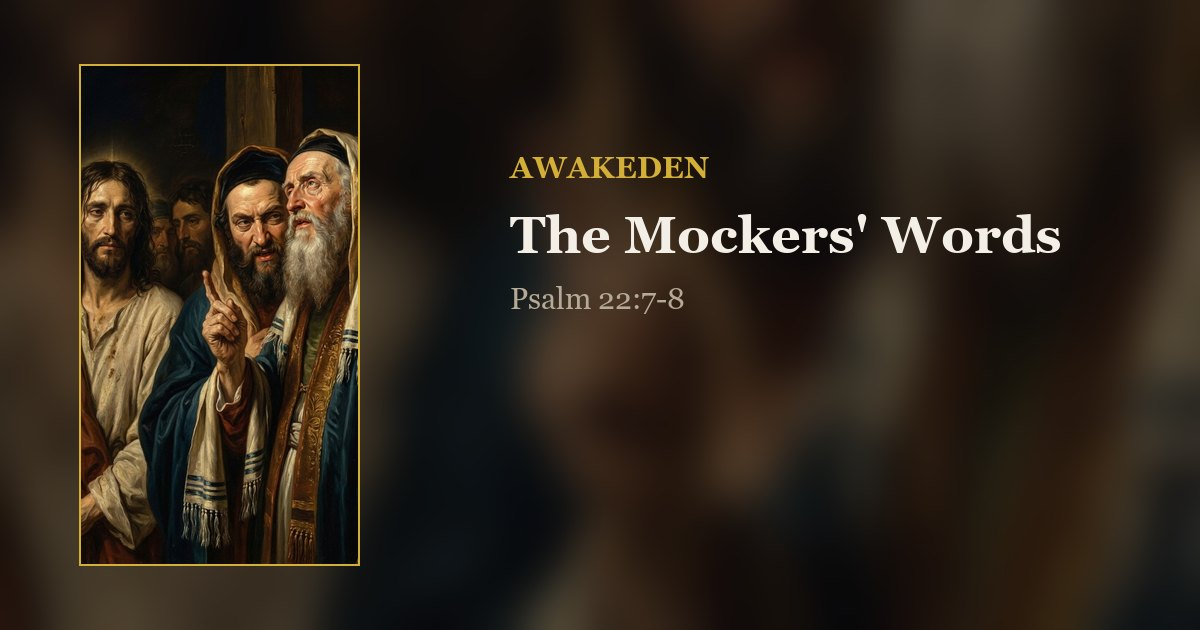
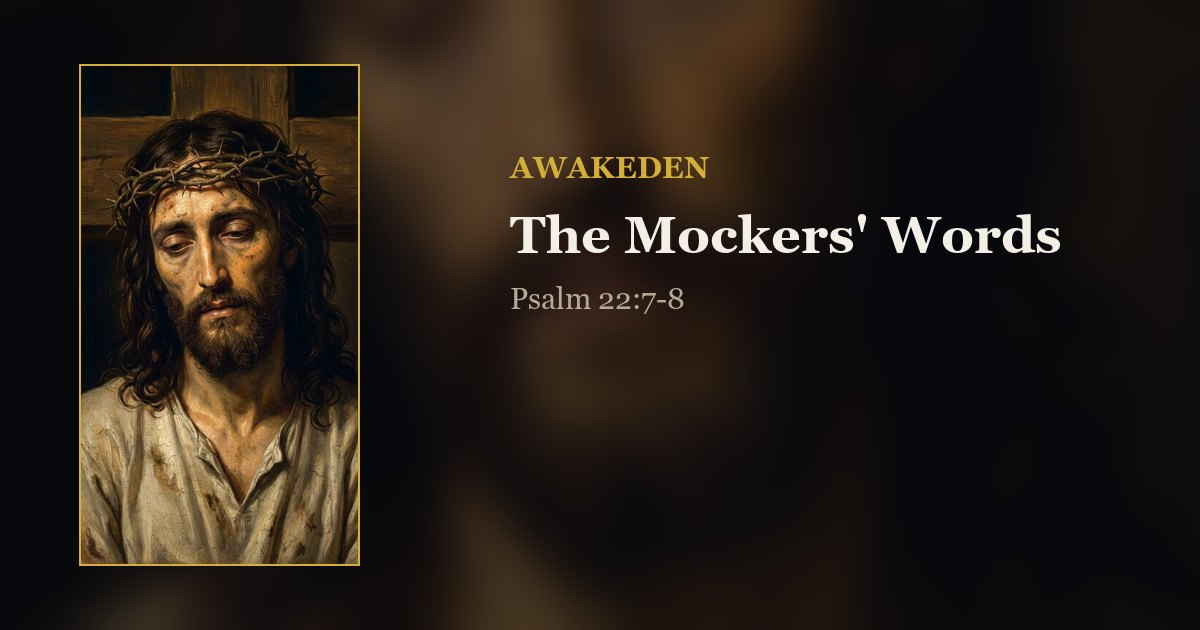
Add a real image for the mockers card
ps22-02 (The Mockers' Words) was the last placeholder. Approved its preview and
pointed it at 13_the-silent-king (Christ bowed under the crown, fitting the
silent King enduring the mockers). Regenerated its share card and webp preview,
removed the SVG. All 10 catalogue cards now show real paintings.

diff --git a/_website/work/ps22-02-mockers-words.html b/_website/work/ps22-02-mockers-words.html
@@ -40,7 +40,7 @@
   <main class="work-page">
     <div class="work-hero">
       <div class="work-poster ken-burns">
-        <img src='../assets/previews/ps22-02-mockers-words.svg' alt=''>
+        <img src='../assets/previews/ps22-02-mockers-words.webp' alt=''>
       </div>
       <div class="work-meta">
         <span class="badge status-production">In production</span>
